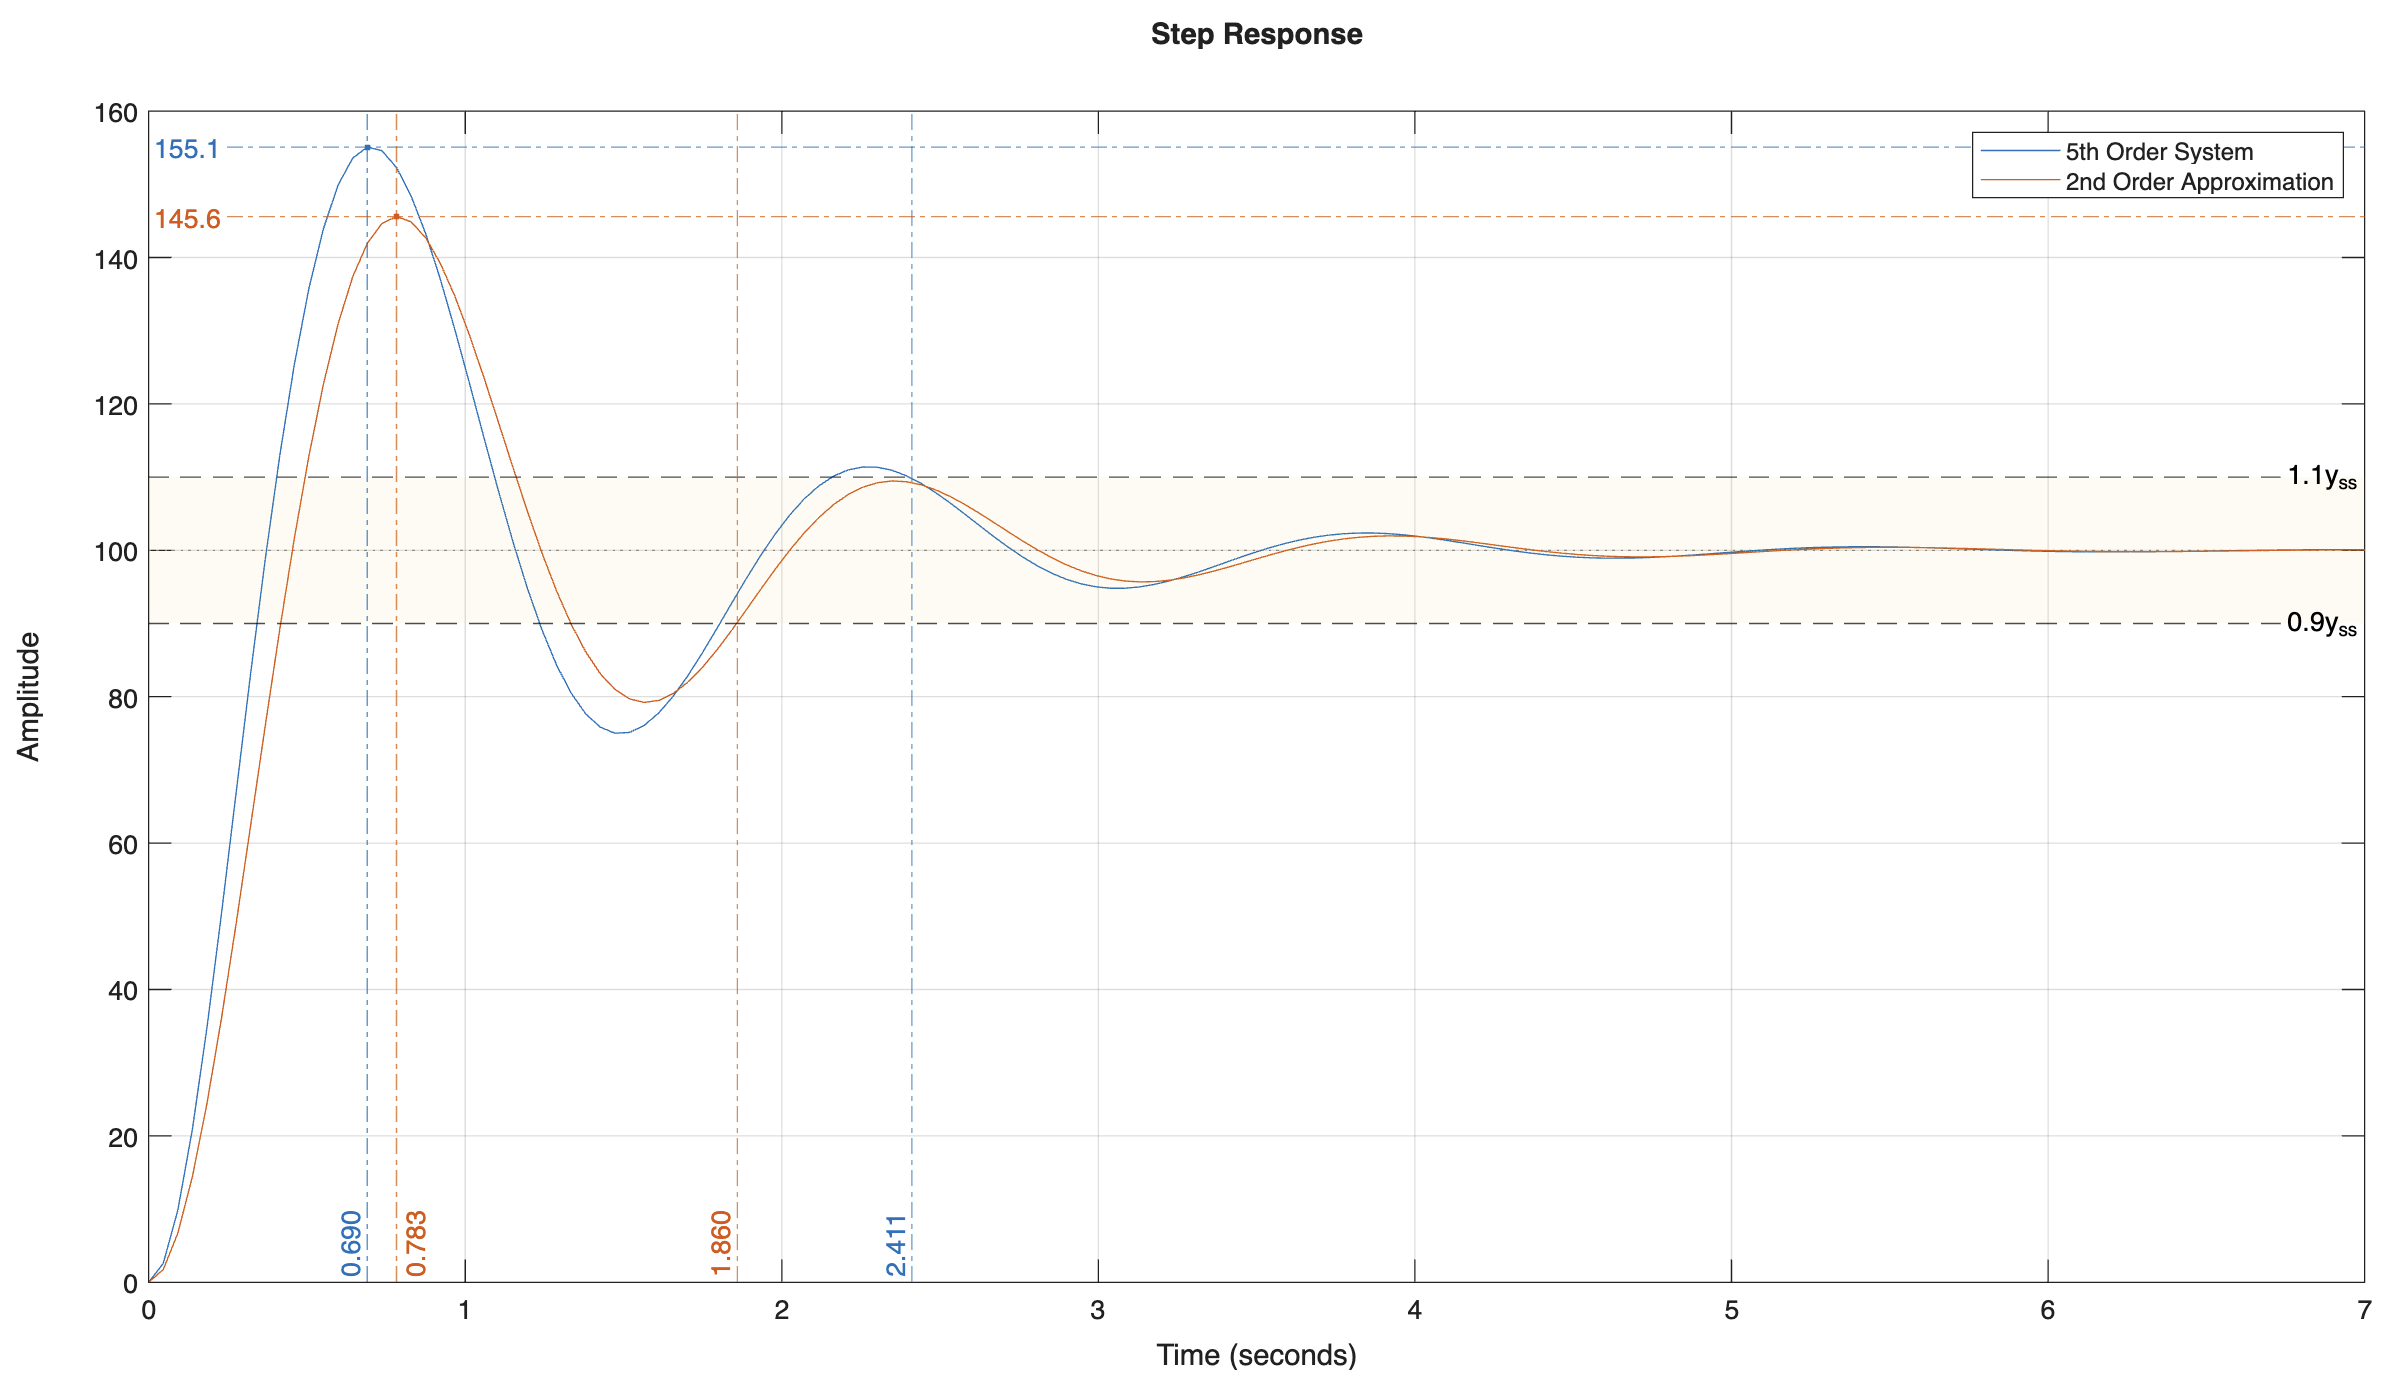
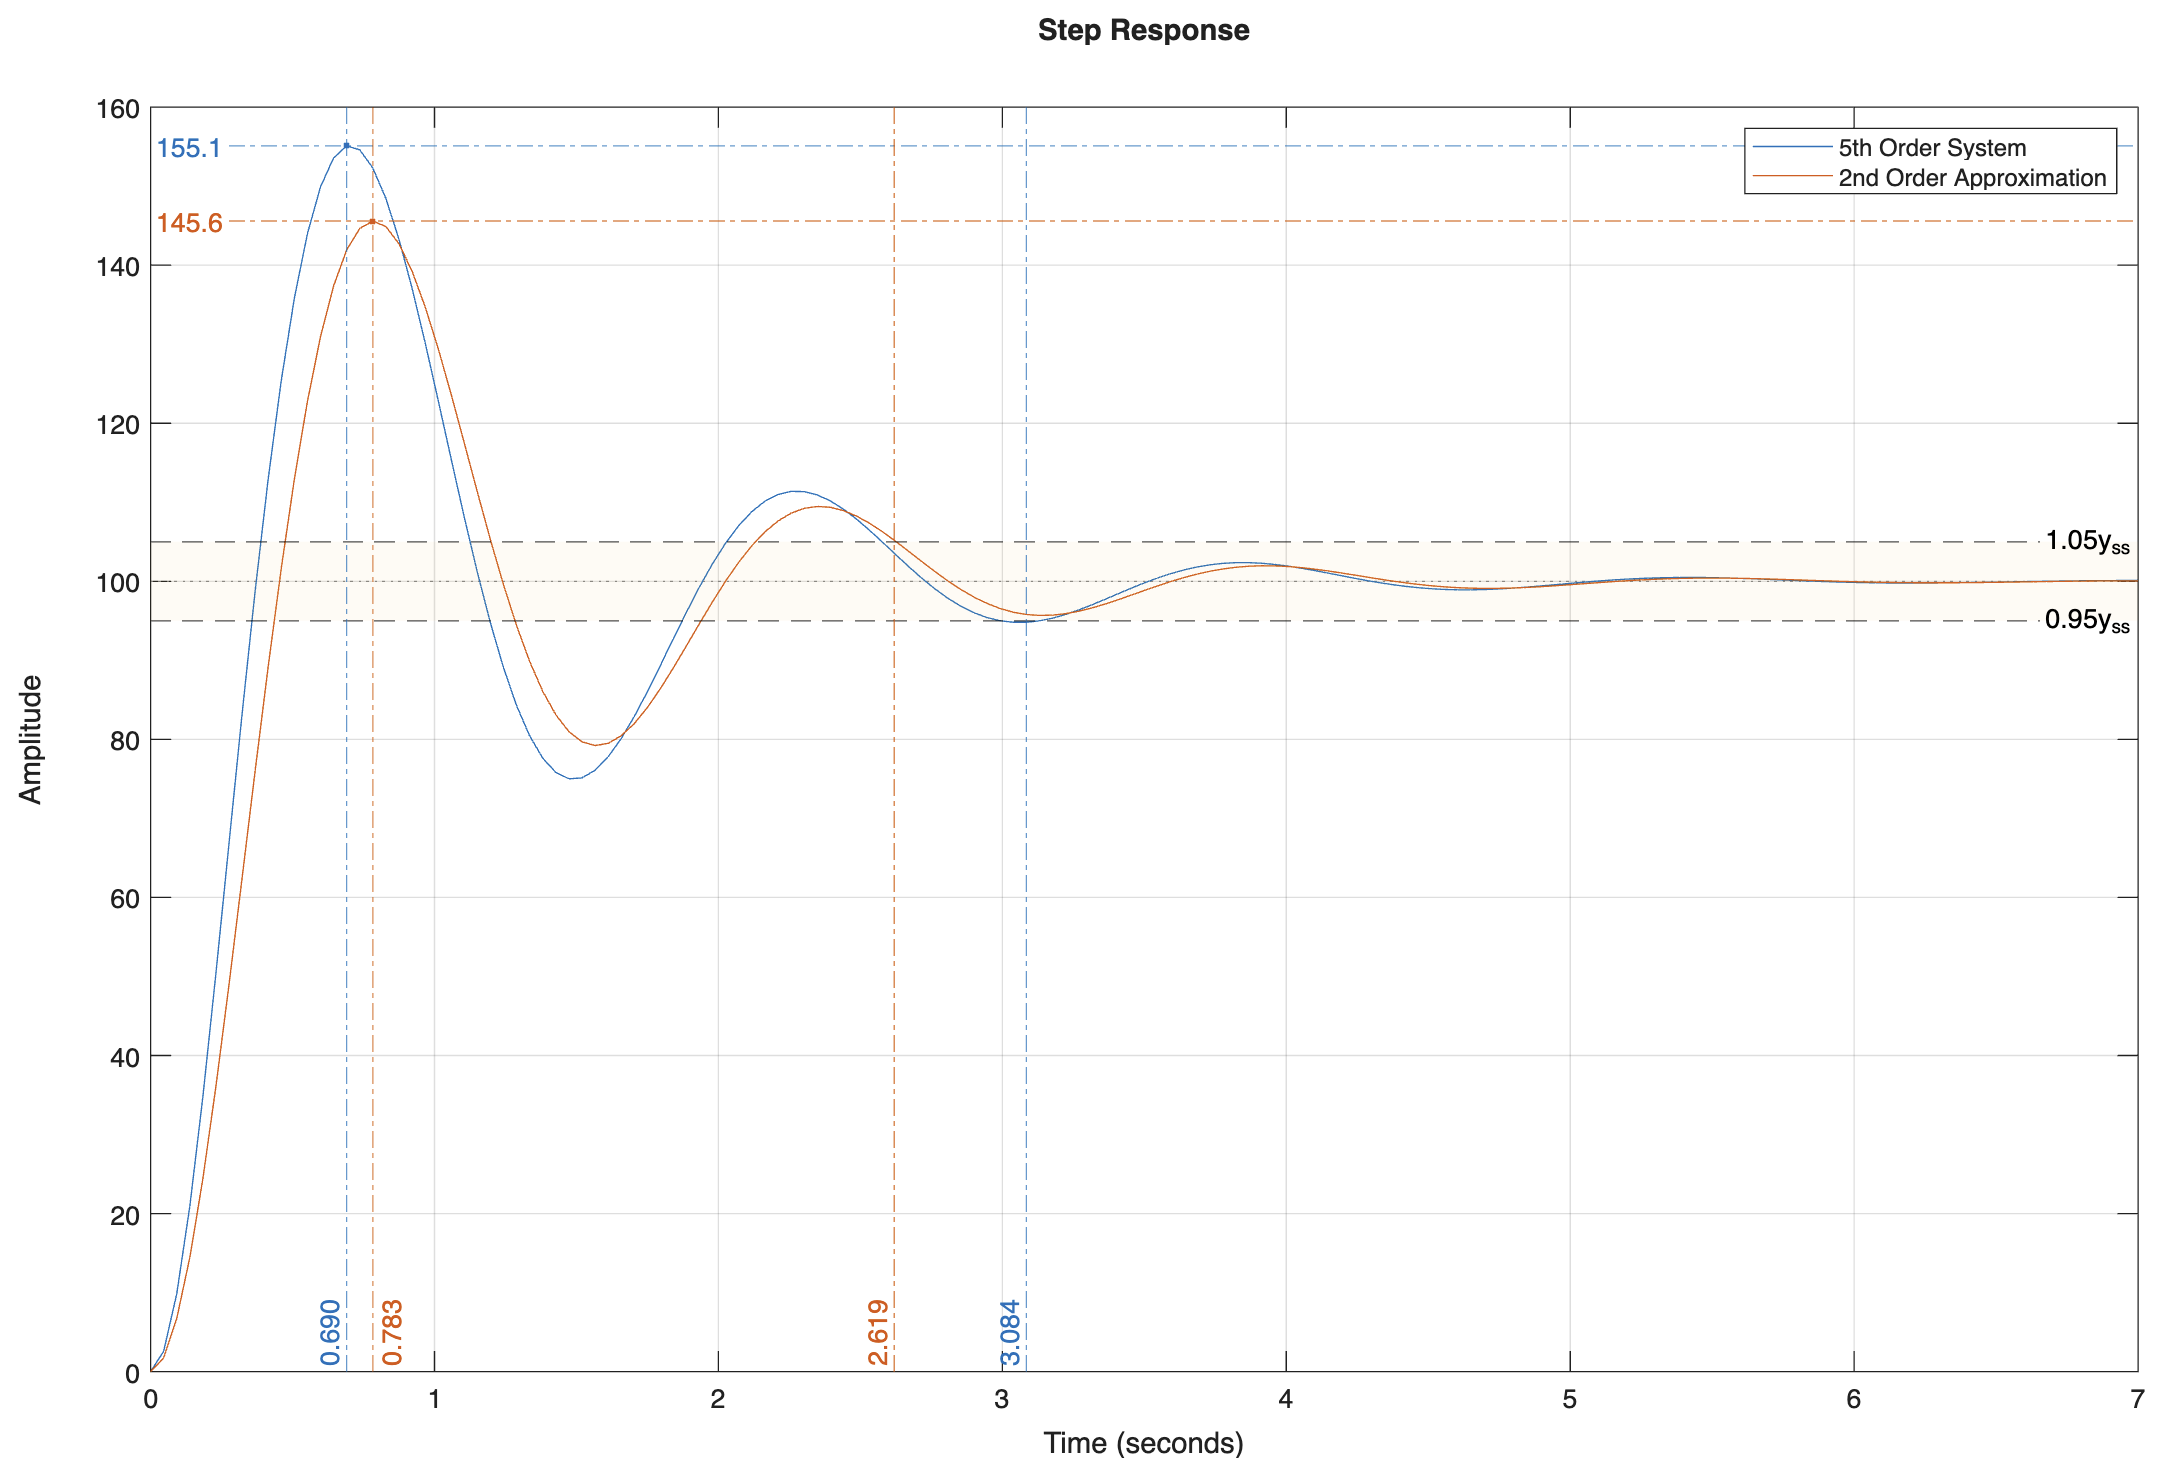
changed settling thresholds to +-5%

diff --git a/test_transfer.m b/test_transfer.m
@@ -11,10 +11,10 @@ syms s
 % Set dominant poles (complex conjugate pair)
 DOMINANT_POLES = (s+1-4j) * (s+1+4j);
 % Add nondominant poles for higher-order transfer function
-HIGHER_ORDER_POLES = (s+10) * (s+7) * (s+5-9j) * (s+5+9j) ...
+HIGHER_ORDER_POLES = (s+7) * (s+5-2j) * (s+5+2j) ...
     * DOMINANT_POLES;
 % Add zeros into higher-order transfer function
-ZEROS = (s+6+8j) * (s+6-8j) * (s+5);
+ZEROS = (s+5) * (s+6+8j) * (s+6-8j)
 
 K = 1/DC_GAIN * (subs(expand(ZEROS), s, 0) / subs(expand(HIGHER_ORDER_POLES), s, 0));
 denominator1 = sym2poly(K * expand(HIGHER_ORDER_POLES));
@@ -43,16 +43,16 @@ function [S1, S2] = plot_step_response(n1, d1, n2, d2)
     legend('5th Order System', '2nd Order Approximation');
     hold;
     yss = n1(end) / d1(end);
-    yline([yss*0.9 yss*1.1], '--', {'0.9y_{ss}', '1.1y_{ss}'}, ...
+    yline([yss*0.95 yss*1.05], '--', {'0.95y_{ss}', '1.05y_{ss}'}, ...
         'LabelHorizontalAlignment', 'right', 'LabelVerticalAlignment', 'middle', ...
         'HandleVisibility', 'off', 'Color', '#000000');
-    patch([xlim fliplr(xlim)], [0.9*yss 0.9*yss 1.1*yss 1.1*yss], [1.0 0.7 0.15], ...
+    patch([xlim fliplr(xlim)], [0.95*yss 0.95*yss 1.05*yss 1.05*yss], [1.0 0.7 0.15], ...
         'FaceAlpha', 0.05, 'EdgeColor', 'none', 'HandleVisibility', 'off');
-    % Get step response time parameters (with settling time defined as +-10% threshold)
+    % Get step response time parameters (with settling time defined as +-5% threshold)
     [y1, t1] = step(sys1);
     [y2, t2] = step(sys2);
-    S1 = stepinfo(y1, t1, SettlingTimeThreshold=0.1);
-    S2 = stepinfo(y2, t2, SettlingTimeThreshold=0.1);
+    S1 = stepinfo(y1, t1, SettlingTimeThreshold=0.05);
+    S2 = stepinfo(y2, t2, SettlingTimeThreshold=0.05);
     % Calculate delay times and add to step info structs
     delay1 = find(y1 >= 0.5*yss, 1, 'first');
     delay2 = find(y2 >= 0.5*yss, 1, 'first');
@@ -101,7 +101,6 @@ function plot_poles_zeros(n1, d1, d2)
     max_extent = max(abs(poles))+1;
     xlim([-max_extent max_extent]);
     ylim([-max_extent max_extent]);
-    % Plot poles and zeros with appropriate markers
     hold on;
     count = 0;
     for z = poles.'
@@ -116,6 +115,7 @@ function plot_poles_zeros(n1, d1, d2)
             text(r*0.707+0.2, r*0.707+0.2, sprintf('\\omega_{n%d} = 2\\pi\\cdot%.3f', count, r/2/pi));
         end
     end
+    % Plot poles and zeros with appropriate markers
     plot(real(poles), imag(poles), 'bx', 'MarkerSize', 9, 'LineWidth', 1);
     plot(real(zeros), imag(zeros), 'bo', 'MarkerSize', 7, 'LineWidth', 1);
     plot(real(dominantpoles), imag(dominantpoles), 'rx', 'MarkerSize', 9, 'LineWidth', 1);

diff --git a/group_28.m b/group_28.m
@@ -24,16 +24,16 @@ function [S1, S2] = plot_step_response(n1, d1, n2, d2)
     legend('5th Order System', '2nd Order Approximation');
     hold;
     yss = n1(end) / d1(end);
-    yline([yss*0.9 yss*1.1], '--', {'0.9y_{ss}', '1.1y_{ss}'}, ...
+    yline([yss*0.95 yss*1.05], '--', {'0.95y_{ss}', '1.05y_{ss}'}, ...
         'LabelHorizontalAlignment', 'right', 'LabelVerticalAlignment', 'middle', ...
         'HandleVisibility', 'off', 'Color', '#000000');
-    patch([xlim fliplr(xlim)], [0.9*yss 0.9*yss 1.1*yss 1.1*yss], [1.0 0.7 0.15], ...
+    patch([xlim fliplr(xlim)], [0.95*yss 0.95*yss 1.05*yss 1.05*yss], [1.0 0.7 0.15], ...
         'FaceAlpha', 0.05, 'EdgeColor', 'none', 'HandleVisibility', 'off');
-    % Get step response time parameters (with settling time defined as +-10% threshold)
+    % Get step response time parameters (with settling time defined as +-5% threshold)
     [y1, t1] = step(sys1);
     [y2, t2] = step(sys2);
-    S1 = stepinfo(y1, t1, SettlingTimeThreshold=0.1);
-    S2 = stepinfo(y2, t2, SettlingTimeThreshold=0.1);
+    S1 = stepinfo(y1, t1, SettlingTimeThreshold=0.05);
+    S2 = stepinfo(y2, t2, SettlingTimeThreshold=0.05);
     % Calculate delay times and add to step info structs
     delay1 = find(y1 >= 0.5*yss, 1, 'first');
     delay2 = find(y2 >= 0.5*yss, 1, 'first');
@@ -82,7 +82,6 @@ function plot_poles_zeros(n1, d1, d2)
     max_extent = max(abs(poles))+1;
     xlim([-max_extent max_extent]);
     ylim([-max_extent max_extent]);
-    % Plot poles and zeros with appropriate markers
     hold on;
     count = 0;
     for z = poles.'
@@ -97,6 +96,7 @@ function plot_poles_zeros(n1, d1, d2)
             text(r*0.707+0.2, r*0.707+0.2, sprintf('\\omega_{n%d} = 2\\pi\\cdot%.3f', count, r/2/pi));
         end
     end
+    % Plot poles and zeros with appropriate markers
     plot(real(poles), imag(poles), 'bx', 'MarkerSize', 9, 'LineWidth', 1);
     plot(real(zeros), imag(zeros), 'bo', 'MarkerSize', 7, 'LineWidth', 1);
     plot(real(dominantpoles), imag(dominantpoles), 'rx', 'MarkerSize', 9, 'LineWidth', 1);
